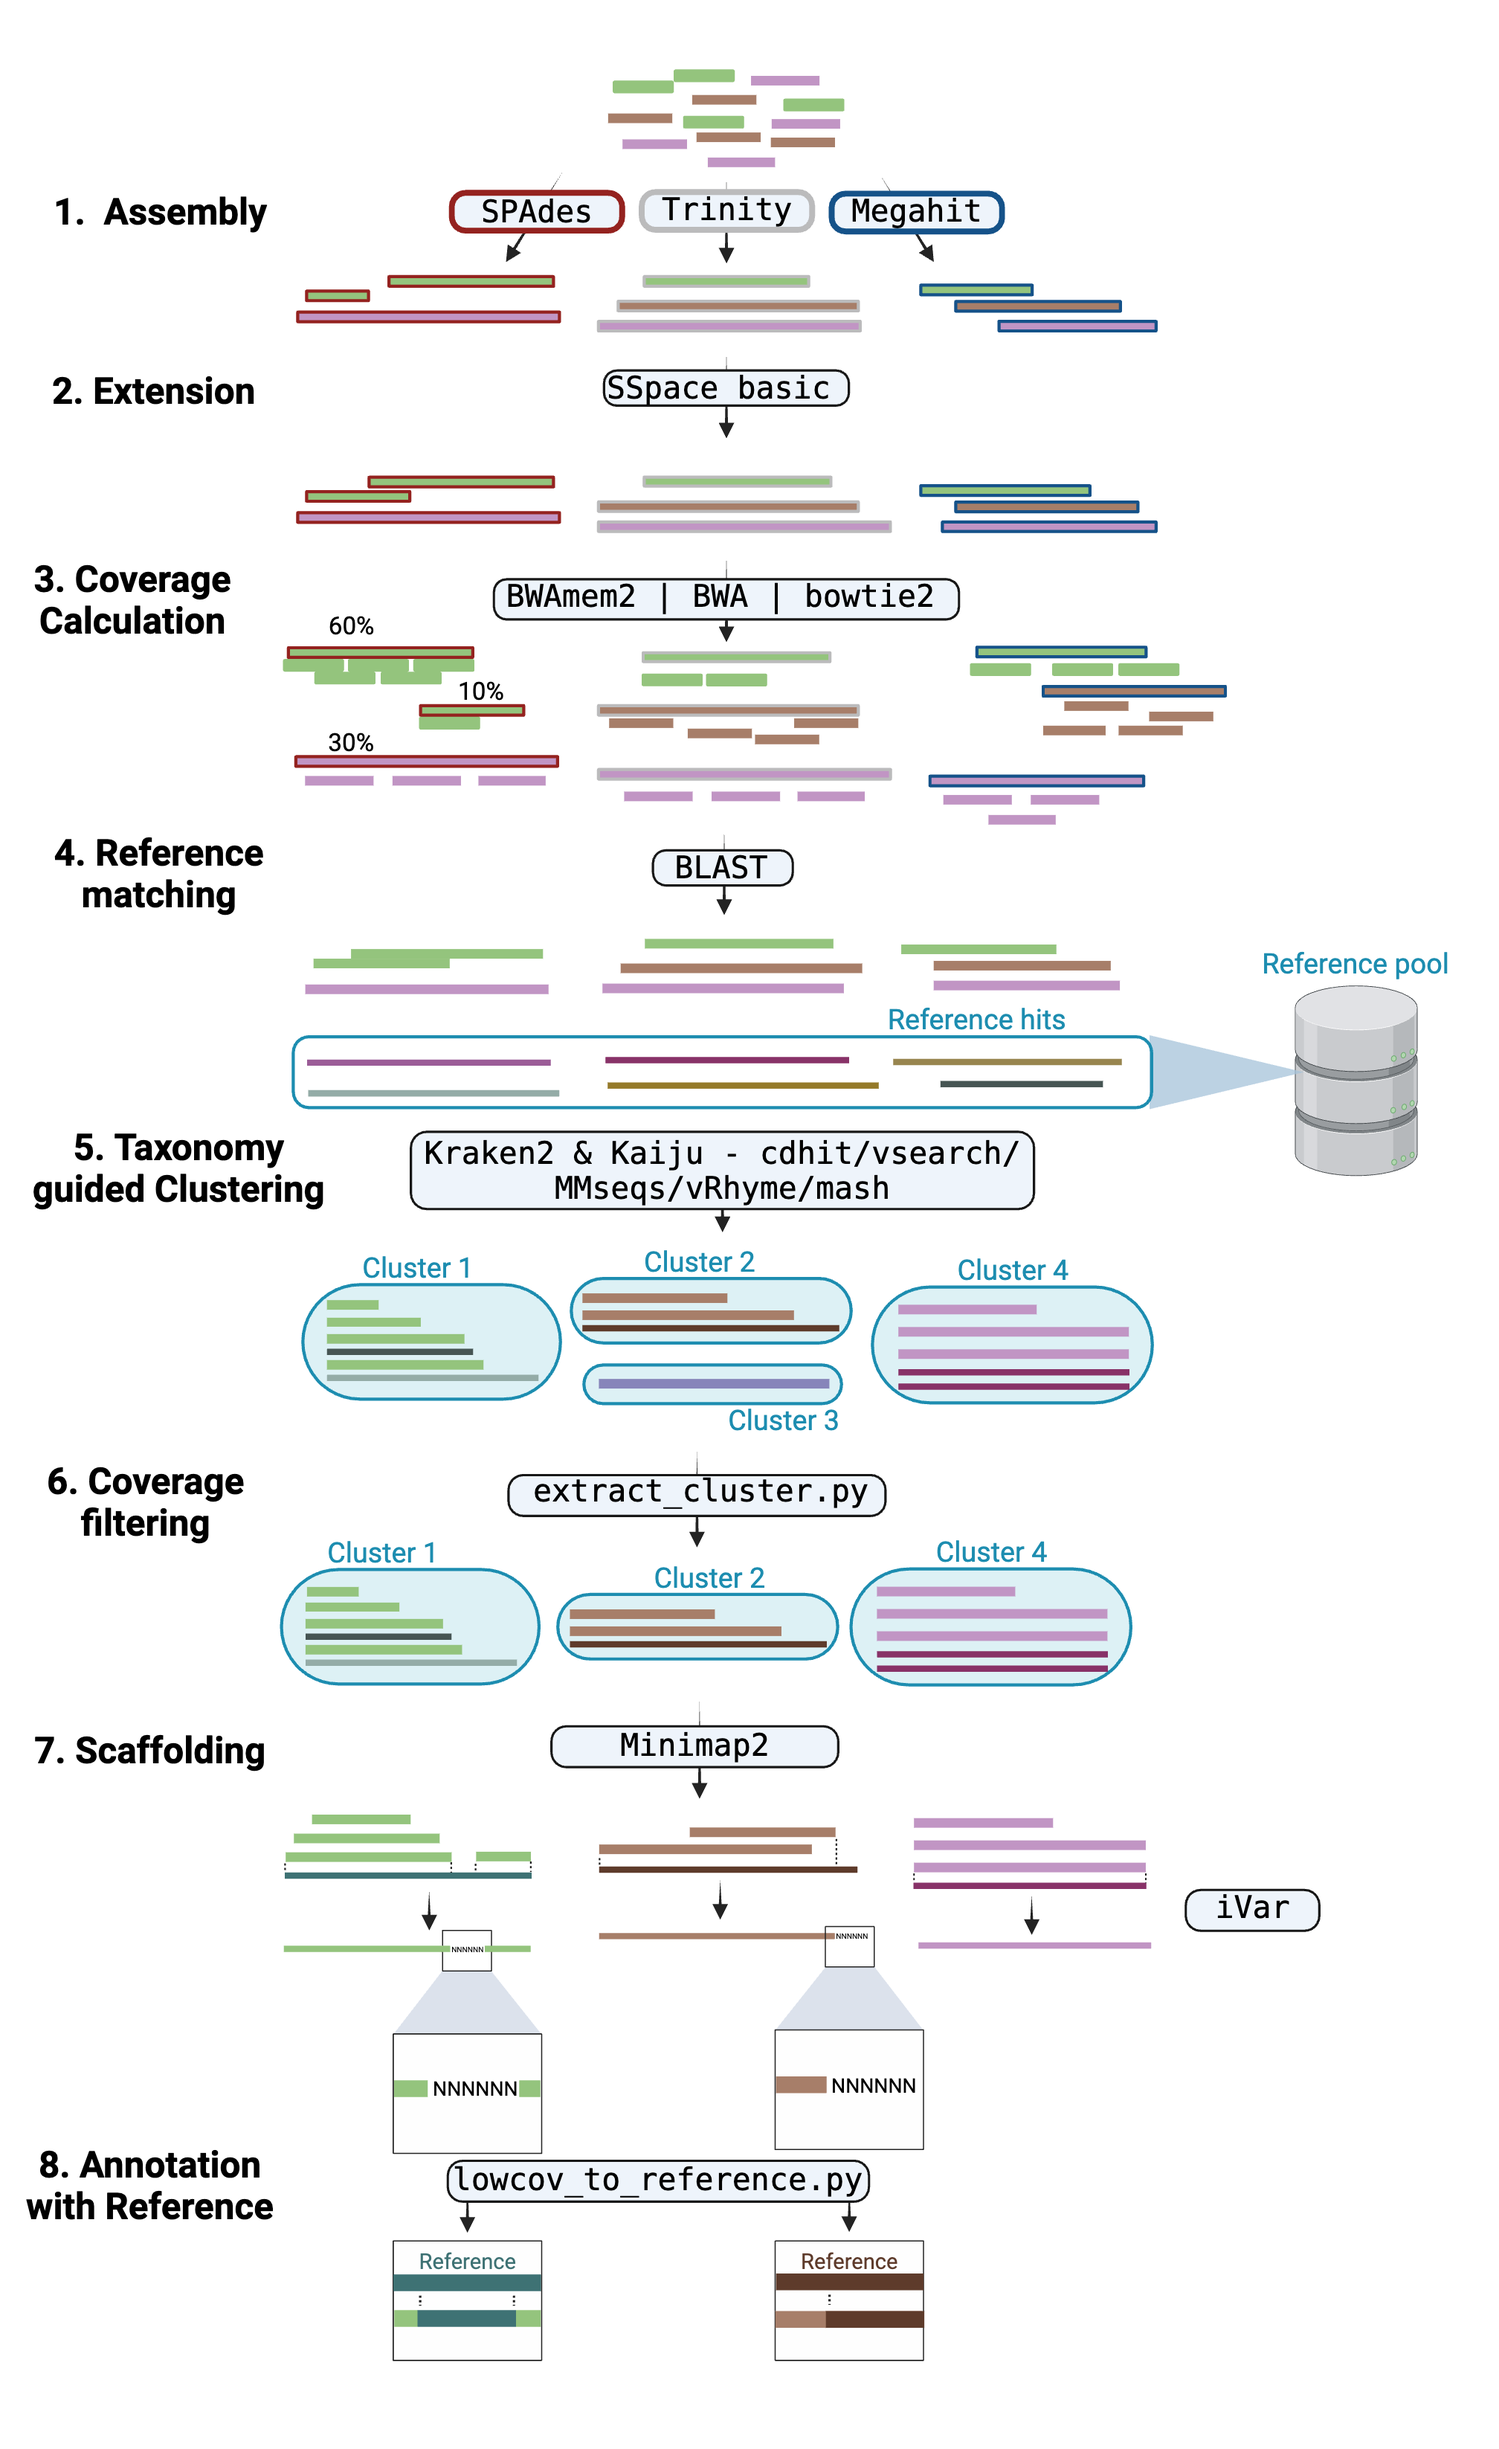
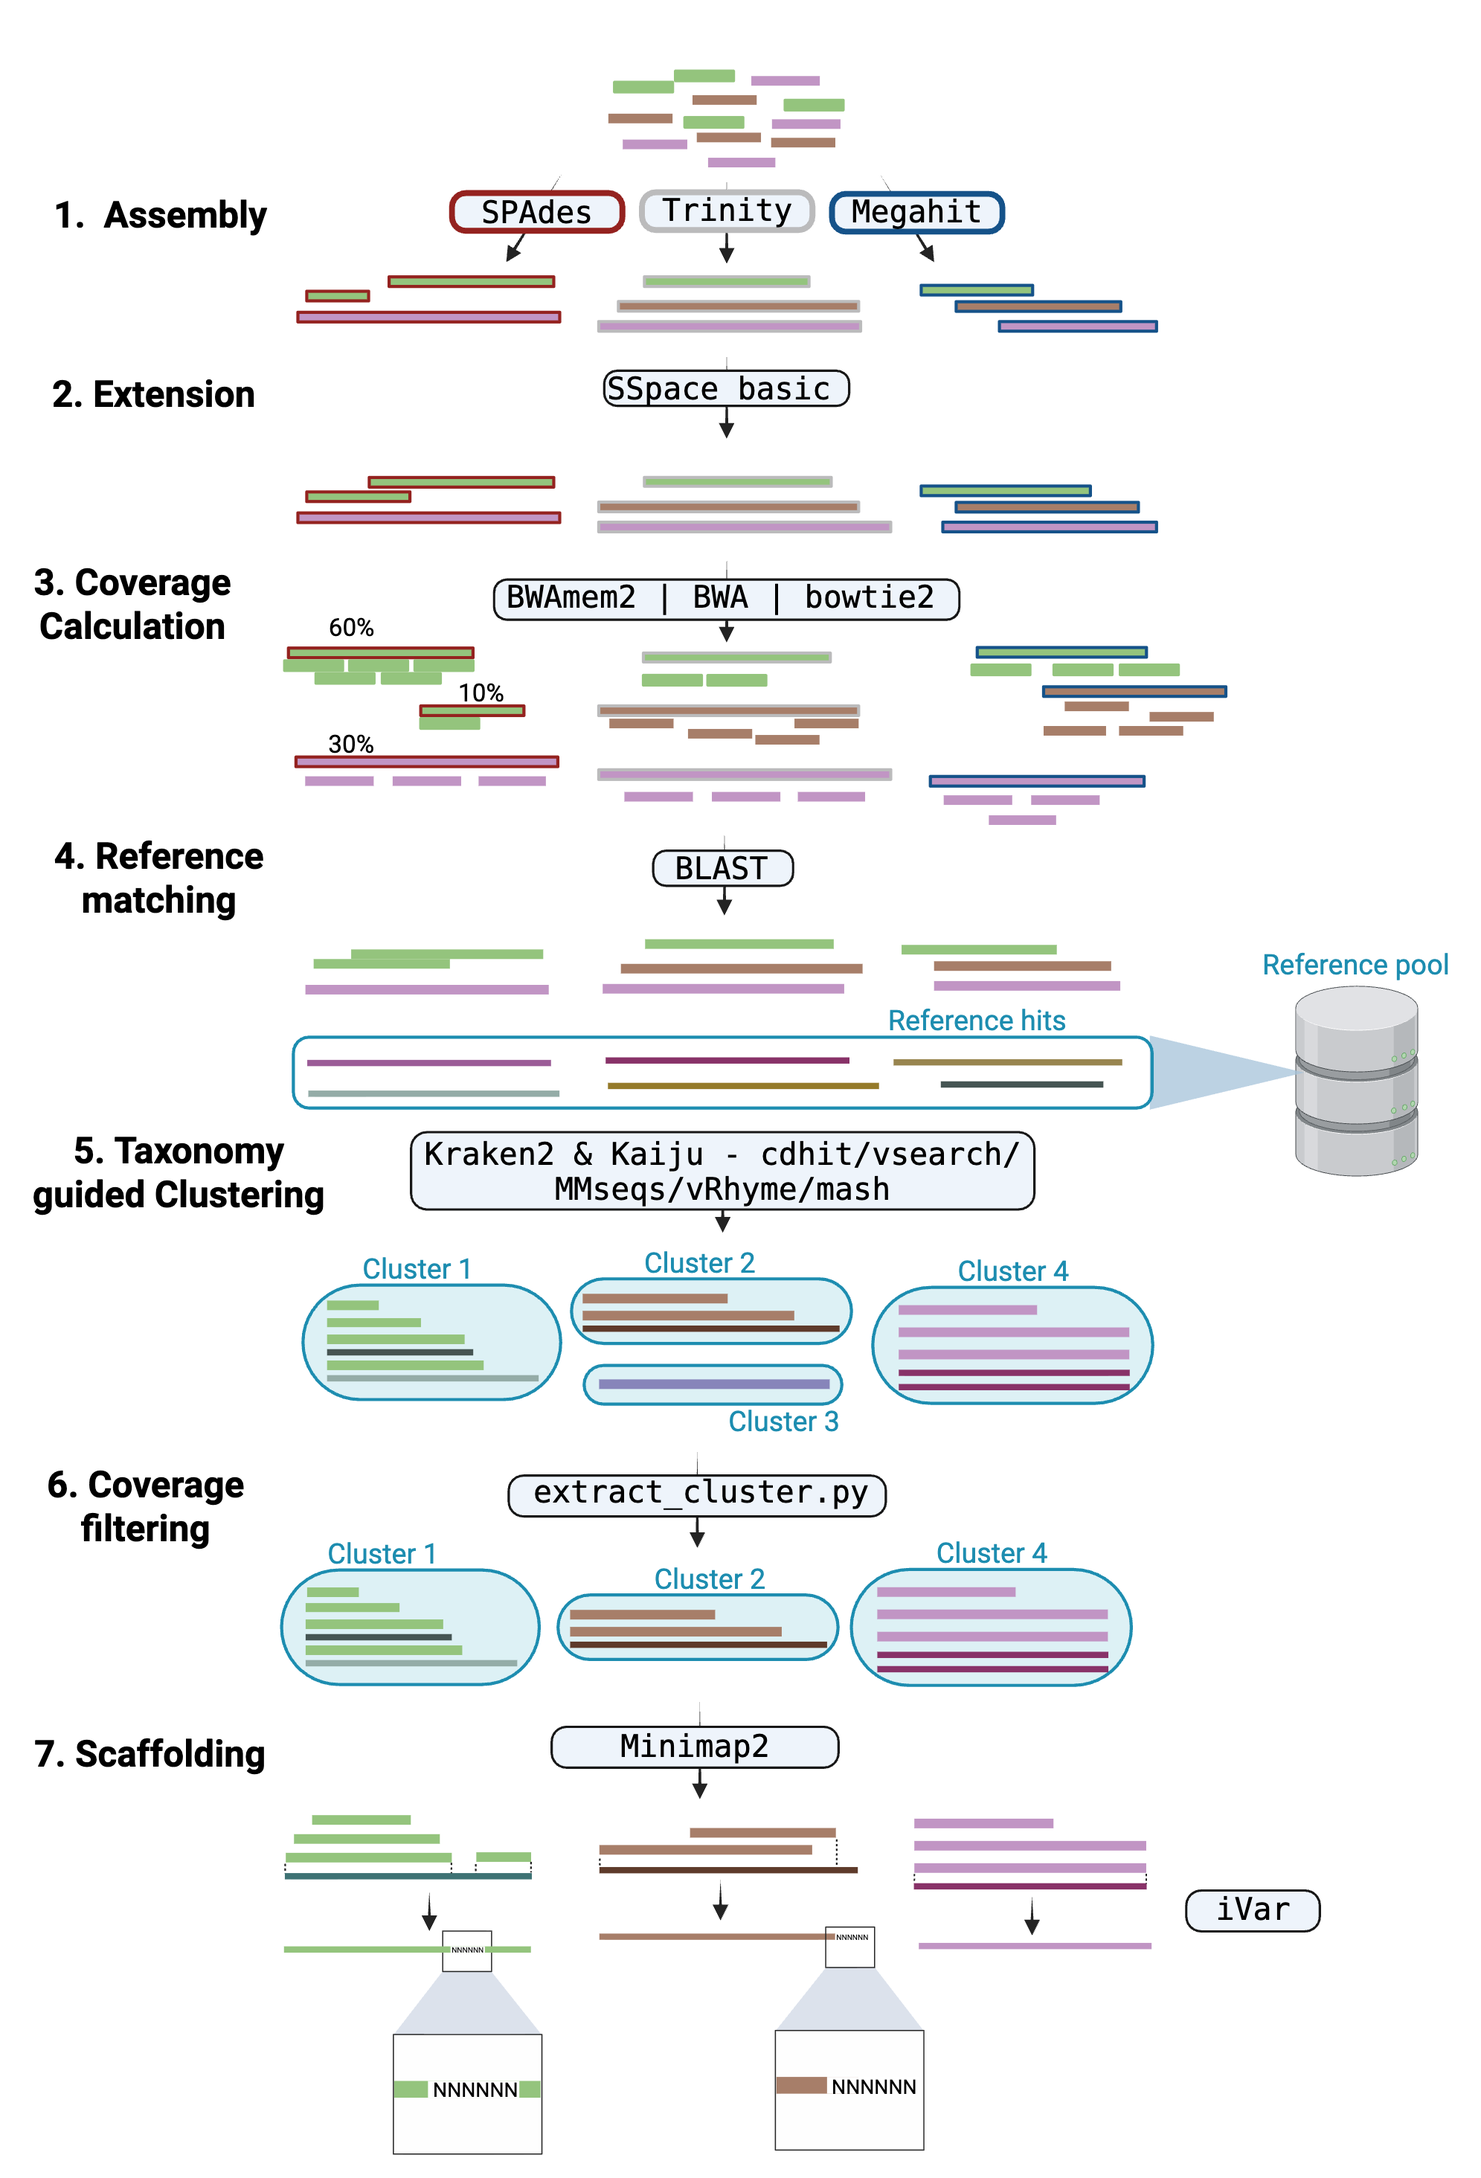
remove other remains of hybrid consensus

diff --git a/docs/output.md b/docs/output.md
@@ -411,7 +411,7 @@ Based on these prefixes nf-core/viralmetagenome separates external references fr
 > [!INFO]
 > By default, nf-core/viralmetagenome will not provide the minimap output files. The intermediate files can be saved by specifying `--save_intermediate_polishing`.
 
-### iVar contig consensus
+### iVar contig consensus (scaffolding)
 
 [iVar](https://andersen-lab.github.io/ivar/html/manualpage.html#autotoc_md19) is a computational method for calling consensus sequences from viral populations.
 
@@ -420,23 +420,11 @@ Based on these prefixes nf-core/viralmetagenome separates external references fr
 - `polishing/scaffolding/<sample-id>`
   - `<sample-id>_cl#_consensus.fa`: A fasta file containing the consensus sequence of the cluster.
   - `<sample-id>_cl#_consensus.mpileup`: A mpileup file containing depth at each position of the consensus sequence.
-  - `hybrid-<sample-id>_cl#_consensus.fa`: A fasta file containing the hybrid consensus sequence of the cluster and the reference.
-  - `/visualised/`
-    - `*.png`: A visualization of the consensus sequence displaying which regions came from the reference and which from the contigs.
-    - `*.txt`: The alignment of the reference to the consensus sequence written as a blast alignment.
 
 :::
 
 > [!INFO]
 > By default, nf-core/viralmetagenome will not provide the iVar output files. The intermediate files can be saved by specifying `--save_intermediate_polishing`.
-
-A visualization is made to show which regions came from the external reference (red) and which from the denovo contigs (green). For example,
-
-![iVar visualization example](images/hybrid_consensus_scaffolding.png)
-
-:::info
-The hybrid consensus is generated by mapping the contigs to the reference and then calling the consensus sequence. This is done to fill in the gaps in the contigs with the reference sequence, if there are no positions with 0 coverage there will not be a hybrid consensus and the output from iVar will be used.
-:::
 
 ## Variant Calling & Iterative Refinement
 
